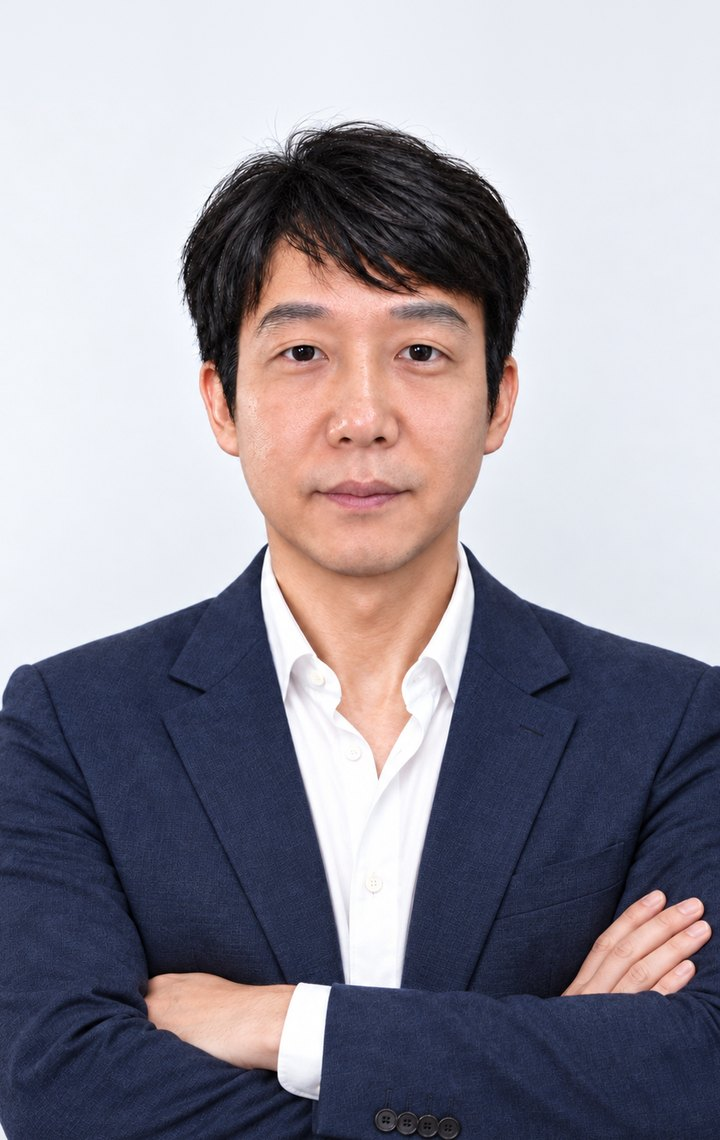
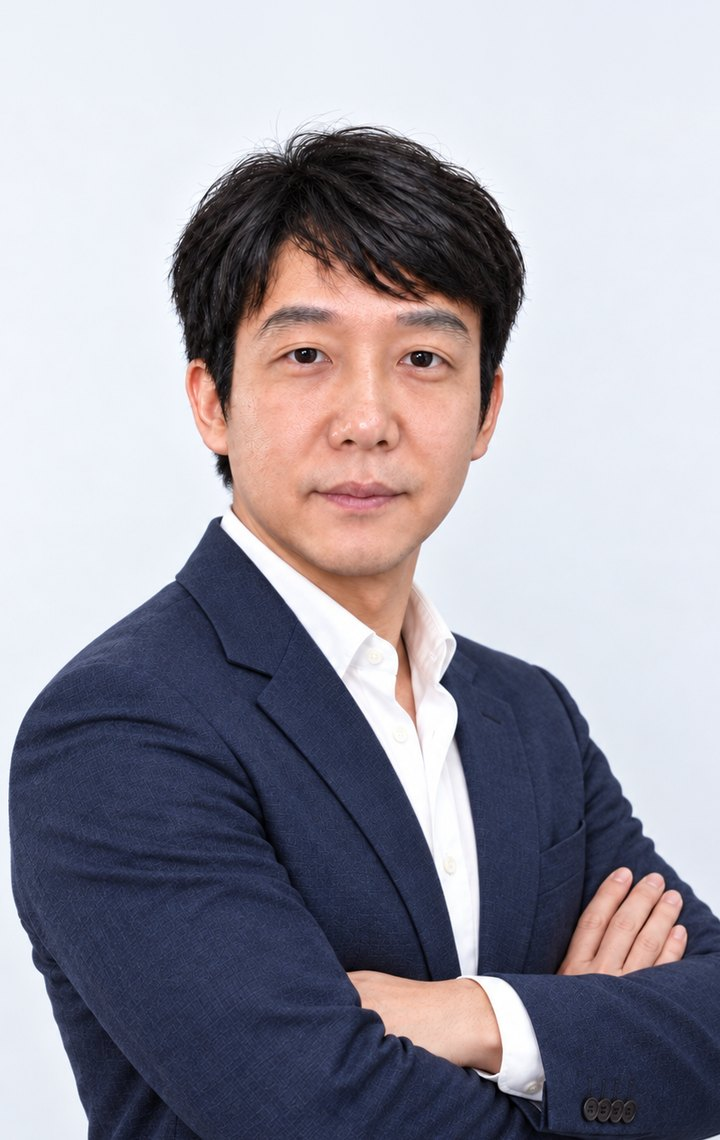
교수 사진을 비스듬한 프로필 사진으로 교체 (v2026.09.28-4)
- 바탕화면 새 사진(비스듬히 선 팔짱 상반신)을 같은 방식으로 세로 카드(720x1140)에 맞춤

diff --git a/index.html b/index.html
@@ -1276,7 +1276,7 @@ html[lang="ko"] .film-deck::before{letter-spacing:.03em;text-transform:none}
       <div class="prof-card reveal">
         <div class="prof-photo">
           <span class="corner c1"></span><span class="corner c2"></span><span class="corner c3"></span><span class="corner c4"></span>
-          <img src="image/sooman_2026.jpg?v=3" alt="Professor Sooman Lim" loading="lazy"/>
+          <img src="image/sooman_2026.jpg?v=4" alt="Professor Sooman Lim" loading="lazy"/>
         </div>
         <div class="prof-name">Dr. Sooman Lim</div>
         <div class="prof-role" data-en="Professor" data-ko="교수">Professor</div>
@@ -1872,7 +1872,7 @@ KR 10-2019-0059812 · Filed 2019.05.22 · Reg. 10-2151766 (2020.08.28)"><div cla
       </div>
     </div>
     <div class="foot-bottom">
-      <span><span data-en="© 2026 PPEL+ (Printability for Printed Electronics Lab) · Jeonbuk National University" data-ko="© 2026 PPEL+ (Printability for Printed Electronics Lab) · 전북대학교">© 2026 PPEL+ (Printability for Printed Electronics Lab) · Jeonbuk National University</span> <span class="build-stamp">· v2026.09.28-3</span></span>
+      <span><span data-en="© 2026 PPEL+ (Printability for Printed Electronics Lab) · Jeonbuk National University" data-ko="© 2026 PPEL+ (Printability for Printed Electronics Lab) · 전북대학교">© 2026 PPEL+ (Printability for Printed Electronics Lab) · Jeonbuk National University</span> <span class="build-stamp">· v2026.09.28-4</span></span>
       <span data-en="567 Baekje-daero, Deokjin-gu, Jeonju-si, Jeonbuk State 54896, Republic of Korea" data-ko="54896 전북특별자치도 전주시 덕진구 백제대로 567">567 Baekje-daero, Deokjin-gu, Jeonju-si, Jeonbuk State 54896, Republic of Korea</span>
     </div>
   </div>

diff --git a/CHANGELOG.md b/CHANGELOG.md
@@ -1,3 +1,7 @@
+## v2026.09.28-4 — 2026-09-28
+
+- 교수 사진을 비스듬히 선 팔짱 상반신 프로필 사진으로 교체(같은 방식으로 세로 카드에 맞춤).
+
 ## v2026.09.28-3 — 2026-09-28
 
 - 교수 사진을 새 프로필 사진(팔짱 낀 상반신)으로 교체. 세로 카드에 맞춰 위쪽 배경을 이어 붙이고, 휴대폰의 가로가 넓은 사진 칸에서도 머리가 잘리지 않게 위쪽 기준으로 맞춤.
